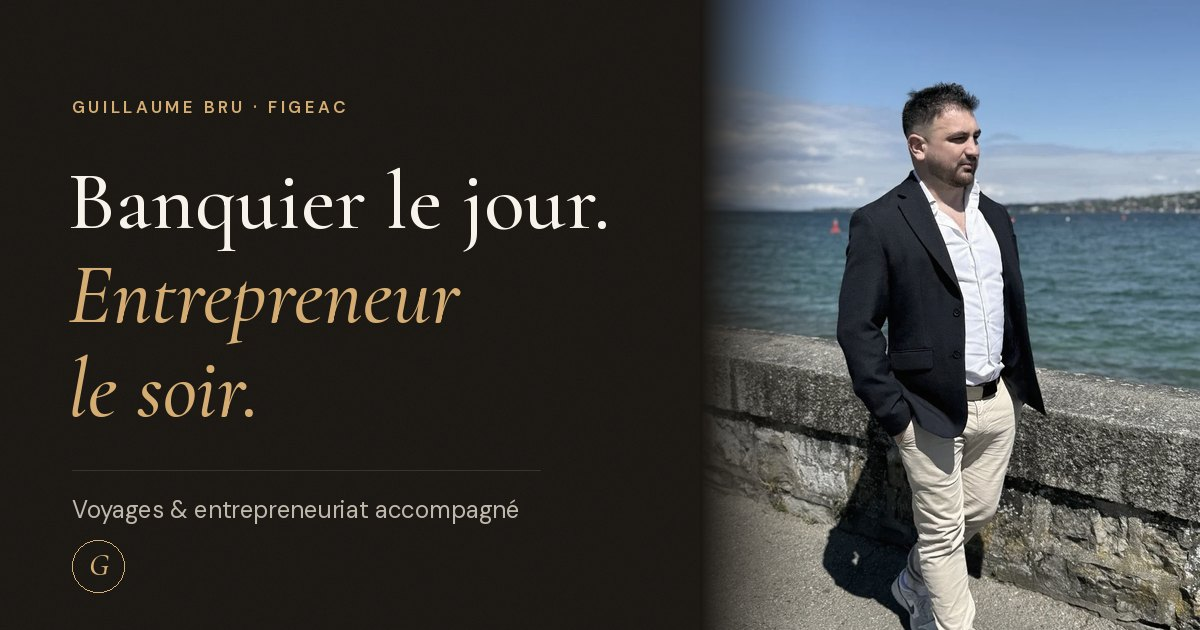
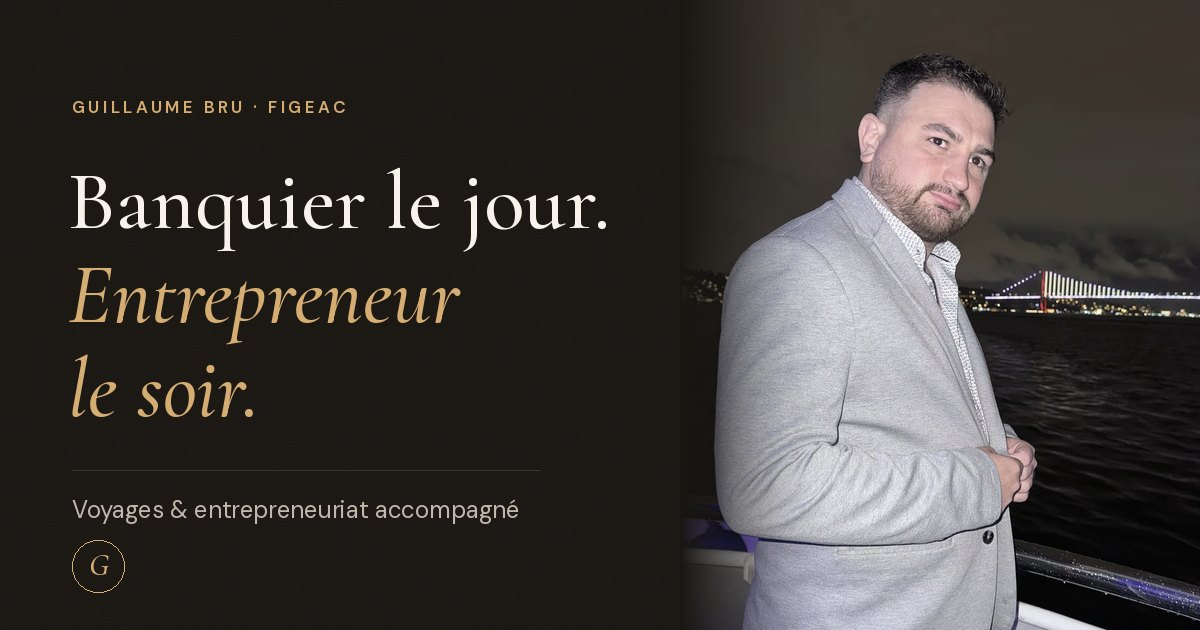
Nouvelles photos, 19 pays et domaine guillaumebru.com
- Accueil : photo de nuit sur le Bosphore en haut, promenade en lin dans
  « Voyager », portrait en veste dans « Faire connaissance »
- Voyager : promenade au coucher du soleil en haut de page
- Chiffres clés : ajout de « 19 pays explorés »
- Adresses de référence, image de partage absolue, sitemap.xml et robots.txt
  pour https://guillaumebru.com ; carte de partage refaite avec la photo de nuit
- Retrait des anciennes photos (coucher de soleil, bateau)

Claude-Session: https://claude.ai/code/session_01PUJB4rUA6A8euqWsjaTKYS

diff --git a/index.html b/index.html
@@ -1,9 +1,9 @@
-<!doctype html><html lang="fr"><head><meta charset="utf-8"><script>document.documentElement.classList.add('js');setTimeout(function(){if(!window.__revealReady)document.documentElement.classList.add('reveal-all')},3500)</script><meta name="viewport" content="width=device-width,initial-scale=1"><meta name="theme-color" content="#191612"><meta name="robots" content="index,follow"><title>Guillaume Bru — Voyages &amp; entrepreneuriat accompagné</title><meta name="description" content="Voyager, entreprendre et avancer à ton rythme avec Guillaume Bru, à Figeac."><meta property="og:title" content="Guillaume Bru — Voyages &amp; entrepreneuriat accompagné"><meta property="og:description" content="Voyager, entreprendre et avancer à ton rythme avec Guillaume Bru, à Figeac."><meta property="og:type" content="website"><meta property="og:site_name" content="Guillaume Bru"><meta property="og:locale" content="fr_FR"><meta property="og:image" content="assets/og-card.jpg"><meta property="og:image:width" content="1200"><meta property="og:image:height" content="630"><meta property="og:image:alt" content="Guillaume Bru — Banquier le jour. Entrepreneur le soir."><meta name="twitter:card" content="summary_large_image"><link rel="icon" href="favicon.svg" type="image/svg+xml"><link rel="preload" href="assets/editorial.woff2" as="font" type="font/woff2" crossorigin><link rel="preload" href="assets/sans.woff2" as="font" type="font/woff2" crossorigin><link rel="stylesheet" href="site.css?v=20261110-premium"><script src="app.js?v=20261110-premium" defer></script></head><body data-page="home"><a class="skip-link" href="#main">Aller au contenu</a><header class="site-header"><div class="wrap header-inner"><a class="brand" href="index.html" aria-label="Guillaume Bru, accueil">Guillaume <em>Bru.</em></a><button class="menu-toggle" aria-expanded="false" aria-controls="main-navigation">Menu</button><nav class="header-nav" id="main-navigation" aria-label="Navigation principale"><a href="voyages.html">Voyager</a><a href="activite.html">Entreprendre</a><a href="index.html#guillaume">Guillaume</a><a class="button" href="#contact">On en parle ? <span aria-hidden="true">↗</span></a></nav></div></header><main id="main">
-<section class="hero hero-dark" aria-labelledby="home-title"><div class="wrap hero-grid"><div class="hero-copy"><span class="eyebrow">Guillaume Bru · Figeac</span><h1 id="home-title"><span class="line"><span>Banquier le jour.</span></span><em><span class="line"><span>Entrepreneur</span></span><span class="line"><span>le soir.</span></span></em></h1><p class="hero-lead">Le voyage fait partie de ma vie.<br>L’entrepreneuriat aussi.</p><p>Depuis 2021, je développe une activité autour du voyage en parallèle de mon emploi. Je partage les services que j’utilise et j’accompagne ceux qui veulent se lancer.</p><a class="button" href="#contact">On en parle ? <span aria-hidden="true">↗</span></a><a class="quiet-link" href="#voyager">Découvrir mes activités <span class="arrow-down" aria-hidden="true">↓</span></a><div class="personal-intro"><a class="intro-person" href="#guillaume"><span class="intro-portrait"><img src="assets/costume-avatar.webp" width="160" height="213" alt="Portrait de Guillaume Bru" loading="eager"></span><span><strong>Moi, c’est Guillaume.</strong><span>Figeac · Banquier &amp; entrepreneur</span></span></a></div></div><figure class="hero-photo sunset-photo"><img src="assets/portrait-800.webp" srcset="assets/portrait-480.webp 480w, assets/portrait-800.webp 800w, assets/portrait-1200.webp 1152w" sizes="(max-width: 620px) calc(100vw - 40px), (max-width: 820px) 44vw, 560px" width="1152" height="1536" alt="Guillaume Bru en veste, au bord de l’eau" loading="eager" fetchpriority="high" decoding="async"></figure></div></section>
+<!doctype html><html lang="fr"><head><meta charset="utf-8"><script>document.documentElement.classList.add('js');setTimeout(function(){if(!window.__revealReady)document.documentElement.classList.add('reveal-all')},3500)</script><meta name="viewport" content="width=device-width,initial-scale=1"><meta name="theme-color" content="#191612"><meta name="robots" content="index,follow"><title>Guillaume Bru — Voyages &amp; entrepreneuriat accompagné</title><meta name="description" content="Voyager, entreprendre et avancer à ton rythme avec Guillaume Bru, à Figeac."><meta property="og:title" content="Guillaume Bru — Voyages &amp; entrepreneuriat accompagné"><meta property="og:description" content="Voyager, entreprendre et avancer à ton rythme avec Guillaume Bru, à Figeac."><meta property="og:type" content="website"><meta property="og:site_name" content="Guillaume Bru"><meta property="og:locale" content="fr_FR"><meta property="og:url" content="https://guillaumebru.com/"><meta property="og:image" content="https://guillaumebru.com/assets/og-card.jpg"><meta property="og:image:width" content="1200"><meta property="og:image:height" content="630"><meta property="og:image:alt" content="Guillaume Bru — Banquier le jour. Entrepreneur le soir."><meta name="twitter:card" content="summary_large_image"><link rel="canonical" href="https://guillaumebru.com/"><link rel="icon" href="favicon.svg" type="image/svg+xml"><link rel="preload" href="assets/editorial.woff2" as="font" type="font/woff2" crossorigin><link rel="preload" href="assets/sans.woff2" as="font" type="font/woff2" crossorigin><link rel="stylesheet" href="site.css?v=20261110-premium"><script src="app.js?v=20261110-premium" defer></script></head><body data-page="home"><a class="skip-link" href="#main">Aller au contenu</a><header class="site-header"><div class="wrap header-inner"><a class="brand" href="index.html" aria-label="Guillaume Bru, accueil">Guillaume <em>Bru.</em></a><button class="menu-toggle" aria-expanded="false" aria-controls="main-navigation">Menu</button><nav class="header-nav" id="main-navigation" aria-label="Navigation principale"><a href="voyages.html">Voyager</a><a href="activite.html">Entreprendre</a><a href="index.html#guillaume">Guillaume</a><a class="button" href="#contact">On en parle ? <span aria-hidden="true">↗</span></a></nav></div></header><main id="main">
+<section class="hero hero-dark" aria-labelledby="home-title"><div class="wrap hero-grid"><div class="hero-copy"><span class="eyebrow">Guillaume Bru · Figeac</span><h1 id="home-title"><span class="line"><span>Banquier le jour.</span></span><em><span class="line"><span>Entrepreneur</span></span><span class="line"><span>le soir.</span></span></em></h1><p class="hero-lead">Le voyage fait partie de ma vie.<br>L’entrepreneuriat aussi.</p><p>Depuis 2021, je développe une activité autour du voyage en parallèle de mon emploi. Je partage les services que j’utilise et j’accompagne ceux qui veulent se lancer.</p><a class="button" href="#contact">On en parle ? <span aria-hidden="true">↗</span></a><a class="quiet-link" href="#voyager">Découvrir mes activités <span class="arrow-down" aria-hidden="true">↓</span></a><div class="personal-intro"><a class="intro-person" href="#guillaume"><span class="intro-portrait"><img src="assets/costume-avatar.webp" width="160" height="213" alt="Portrait de Guillaume Bru" loading="eager"></span><span><strong>Moi, c’est Guillaume.</strong><span>Figeac · Banquier &amp; entrepreneur</span></span></a></div></div><figure class="hero-photo sunset-photo"><img src="assets/night-800.webp" srcset="assets/night-480.webp 480w, assets/night-800.webp 800w, assets/night-1200.webp 1200w" sizes="(max-width: 620px) calc(100vw - 40px), (max-width: 820px) 44vw, 560px" width="1200" height="1600" alt="Guillaume Bru en veste, le soir sur le Bosphore" loading="eager" fetchpriority="high" decoding="async"></figure></div></section>
 <aside class="press-band" aria-label="La plateforme et l’entreprise dans les médias"><div class="wrap press-band-inner"><span class="eyebrow">La plateforme à la télévision</span><ul class="press-list"><li><a href="https://www.m6.fr/un-jour-un-doc-p_22196/les-nouveaux-rois-des-vacances-a-prix-casses-c_13173486" target="_blank" rel="noopener noreferrer"><span class="press-name">M6</span><span class="press-show">Un jour, un doc</span></a></li><li><a href="https://youtu.be/HlWkTSdyjbs" target="_blank" rel="noopener noreferrer"><span class="press-name">BFM Business</span><span class="press-show">L’interview</span></a></li></ul><p class="press-note">La plateforme de réservation et l’entreprise MWR Life ont été présentées dans ces émissions.</p></div></aside>
-<section class="section wrap offer-grid" id="voyager"><figure class="editorial-photo travel-photo"><img src="assets/sunset-800.webp" srcset="assets/sunset-480.webp 480w, assets/sunset-800.webp 800w, assets/sunset-1200.webp 1200w" sizes="(max-width: 620px) calc(100vw - 40px), (max-width: 820px) 44vw, 560px" width="1200" height="1601" alt="Guillaume face à la mer au coucher du soleil" loading="lazy" decoding="async"><figcaption>Des moments qu’on a envie de revivre.</figcaption></figure><div class="section-copy"><span class="eyebrow">01 — Voyager</span><h2>Ton prochain<br><em>départ.</em></h2><p class="lead">Les vacances que tu attends.<br>Le week-end qui ferait du bien.<br>Le déplacement qui se prépare.</p><p>Pour mes réservations, j’utilise une plateforme privée, accessible sur invitation. Je te la fais découvrir à partir de tes envies et de tes besoins, pour tes voyages personnels comme professionnels.</p><a class="text-link" href="voyages.html">Découvrir une autre façon de réserver <span aria-hidden="true">↗</span></a><div class="small-aside"><span class="eyebrow">Envie de partager le voyage ?</span><p>En famille, entre amis ou en solo, découvre aussi les Life Experiences.</p><a href="voyages.html#experiences">Explorer les expériences ↗</a></div></div></section>
+<section class="section wrap offer-grid" id="voyager"><figure class="editorial-photo travel-photo"><img src="assets/linen-800.webp" srcset="assets/linen-480.webp 480w, assets/linen-800.webp 800w, assets/linen-1200.webp 1200w" sizes="(max-width: 620px) calc(100vw - 40px), (max-width: 820px) 44vw, 560px" width="1200" height="1600" alt="Guillaume en tenue de lin claire, sur une promenade en bord de mer" loading="lazy" decoding="async"><figcaption>Des moments qu’on a envie de revivre.</figcaption></figure><div class="section-copy"><span class="eyebrow">01 — Voyager</span><h2>Ton prochain<br><em>départ.</em></h2><p class="lead">Les vacances que tu attends.<br>Le week-end qui ferait du bien.<br>Le déplacement qui se prépare.</p><p>Pour mes réservations, j’utilise une plateforme privée, accessible sur invitation. Je te la fais découvrir à partir de tes envies et de tes besoins, pour tes voyages personnels comme professionnels.</p><a class="text-link" href="voyages.html">Découvrir une autre façon de réserver <span aria-hidden="true">↗</span></a><div class="small-aside"><span class="eyebrow">Envie de partager le voyage ?</span><p>En famille, entre amis ou en solo, découvre aussi les Life Experiences.</p><a href="voyages.html#experiences">Explorer les expériences ↗</a></div></div></section>
 <section class="section dark-section" id="entreprendre"><div class="wrap offer-grid reverse-grid"><div class="section-copy"><span class="eyebrow">02 — Entreprendre</span><h2>Ton projet.<br><em>On prépare la suite.</em></h2><p class="lead">Financer une envie. Partir plus souvent.<br>Retrouver un peu de marge.</p><p>Mon activité : recommander un service que j’utilise pour mes propres voyages, et être rémunéré grâce à cette recommandation.</p><div class="human-note"><span class="eyebrow">De l’entrepreneuriat accompagné</span><h3>Ton activité. Ton rythme.</h3><p>Tu apprends à présenter le service avec la formation en ligne. Ensemble, on prépare tes premiers échanges et on fait le point sur ce qui te bloque.</p><p>Pas de patron, pas de pression de ma part. L’activité s’adapte à ta vie, pas l’inverse.</p></div><a class="button" href="activite.html">Découvrir l’activité <span aria-hidden="true">↗</span></a></div><figure class="editorial-photo training-photo"><img src="assets/training-crop-600.webp" srcset="assets/training-crop-480.webp 480w, assets/training-crop-600.webp 600w" sizes="(max-width: 620px) calc(100vw - 40px), (max-width: 820px) 44vw, 560px" width="600" height="900" alt="Guillaume anime une présentation en petit groupe" loading="lazy" decoding="async"><figcaption>Présenter le service et répondre aux questions, ensemble.</figcaption></figure></div></section>
-<section class="section wrap about-grid" id="guillaume"><figure class="editorial-photo about-photo"><img src="assets/costume-800.webp" srcset="assets/costume-480.webp 480w, assets/costume-800.webp 800w, assets/costume-1200.webp 1169w" sizes="(max-width: 620px) calc(100vw - 40px), (max-width: 820px) 44vw, 560px" width="1169" height="1559" alt="Guillaume en costume dans un patio" loading="lazy" decoding="async"><figcaption>Guillaume Bru · Figeac</figcaption></figure><div class="section-copy"><span class="eyebrow">Faire connaissance</span><h2>Banquier.<br>Entrepreneur.<br><em>Et toujours curieux.</em></h2><div class="key-figures"><div><strong>2011</strong><span>Banquier</span></div><div><strong>2021</strong><span>Entrepreneur</span></div><div><strong>CAE</strong><span>Cofondateur</span></div></div><p>Le jour, je travaille en banque. Le soir, je construis une activité autour du voyage.</p><p>J’aime découvrir un endroit, réunir des personnes et voir une idée devenir un projet. C’est ce que je partage ici, et ce que j’ai envie de transmettre à ceux que j’accompagne.</p><p class="subtle">J’ai aussi cofondé le Club Avantages Entrepreneur, qui réunit des dirigeants et des indépendants pour échanger et développer leur réseau.</p><a class="text-link" href="https://www.instagram.com/guillaume.bru_/" target="_blank" rel="noopener noreferrer">Me retrouver sur Instagram <span aria-hidden="true">↗</span></a></div></section>
+<section class="section wrap about-grid" id="guillaume"><figure class="editorial-photo about-photo"><img src="assets/portrait-800.webp" srcset="assets/portrait-480.webp 480w, assets/portrait-800.webp 800w, assets/portrait-1200.webp 1152w" sizes="(max-width: 620px) calc(100vw - 40px), (max-width: 820px) 44vw, 560px" width="1152" height="1536" alt="Guillaume Bru en veste, au bord de l’eau" loading="lazy" decoding="async"><figcaption>Guillaume Bru · Figeac</figcaption></figure><div class="section-copy"><span class="eyebrow">Faire connaissance</span><h2>Banquier.<br>Entrepreneur.<br><em>Et toujours curieux.</em></h2><div class="key-figures"><div><strong>2011</strong><span>Banquier</span></div><div><strong>2021</strong><span>Entrepreneur</span></div><div><strong>19</strong><span>Pays explorés</span></div><div><strong>CAE</strong><span>Cofondateur</span></div></div><p>Le jour, je travaille en banque. Le soir, je construis une activité autour du voyage.</p><p>J’aime découvrir un endroit, réunir des personnes et voir une idée devenir un projet. C’est ce que je partage ici, et ce que j’ai envie de transmettre à ceux que j’accompagne.</p><p class="subtle">J’ai aussi cofondé le Club Avantages Entrepreneur, qui réunit des dirigeants et des indépendants pour échanger et développer leur réseau.</p><a class="text-link" href="https://www.instagram.com/guillaume.bru_/" target="_blank" rel="noopener noreferrer">Me retrouver sur Instagram <span aria-hidden="true">↗</span></a></div></section>
 <section class="manifesto" aria-labelledby="manifesto-title"><div class="wrap manifesto-inner"><svg class="monogram" viewBox="0 0 64 64" aria-hidden="true" focusable="false"><circle cx="32" cy="32" r="30.5" fill="none" stroke="currentColor" stroke-width="1"/><circle cx="32" cy="32" r="27" fill="none" stroke="currentColor" stroke-width=".5" opacity=".55"/><text x="32.5" y="43" text-anchor="middle" font-family="Editorial, Georgia, serif" font-size="33" font-style="italic" fill="currentColor">G</text></svg><span class="eyebrow" id="manifesto-title">Ce qui me guide</span><blockquote><p>La liberté n’est pas réservée à ceux qui semblaient <em>y être destinés.</em></p></blockquote><p class="signature">Guillaume Bru</p><span class="hairline" aria-hidden="true"></span></div></section>
 <section class="contact-section" id="contact"><div class="wrap contact-inner"><span class="eyebrow">La suite commence par un échange</span><h2>Qu’est-ce qui<br><em>te donne envie&nbsp;?</em></h2><p>Un voyage en tête ou une activité à construire ?<br>Choisis ce qui t’intéresse. On en parle ensemble.</p><div class="contact-actions"><a class="button" href="https://wa.me/33670026814?text=Bonjour%20Guillaume%2C%20je%20souhaite%20comparer%20pour%20mon%20prochain%20s%C3%A9jour.%20Voici%20ma%20destination%2C%20mes%20dates%20et%20le%20nombre%20de%20voyageurs%20%3A%20" target="_blank" rel="noopener noreferrer">Comparer pour mon séjour <span aria-hidden="true">↗</span></a><a class="button button-outline" href="https://wa.me/33670026814?text=Bonjour%20Guillaume%2C%20je%20viens%20de%20d%C3%A9couvrir%20ton%20site.%20J%E2%80%99aimerais%20en%20savoir%20plus%20sur%20l%E2%80%99activit%C3%A9%20de%20recommandation%20et%20ton%20accompagnement.%20Peut-on%20en%20parler%20%3F" target="_blank" rel="noopener noreferrer">Parlons de mon projet <span aria-hidden="true">↗</span></a></div><a class="quiet-link" href="https://calendly.com/guillaume-bru/cae" target="_blank" rel="noopener noreferrer">Tu préfères un appel ? Réserver un échange ↗</a></div></section>
 </main>

diff --git a/voyages.html b/voyages.html
@@ -1,5 +1,5 @@
-<!doctype html><html lang="fr"><head><meta charset="utf-8"><script>document.documentElement.classList.add('js');setTimeout(function(){if(!window.__revealReady)document.documentElement.classList.add('reveal-all')},3500)</script><meta name="viewport" content="width=device-width,initial-scale=1"><meta name="theme-color" content="#191612"><meta name="robots" content="index,follow"><title>Ton prochain départ — Guillaume Bru</title><meta name="description" content="Découvre une plateforme de réservation privée sur invitation pour tes séjours personnels et professionnels."><meta property="og:title" content="Ton prochain départ — Guillaume Bru"><meta property="og:description" content="Découvre une plateforme de réservation privée sur invitation pour tes séjours personnels et professionnels."><meta property="og:type" content="website"><meta property="og:site_name" content="Guillaume Bru"><meta property="og:locale" content="fr_FR"><meta property="og:image" content="assets/og-card.jpg"><meta property="og:image:width" content="1200"><meta property="og:image:height" content="630"><meta property="og:image:alt" content="Guillaume Bru — Banquier le jour. Entrepreneur le soir."><meta name="twitter:card" content="summary_large_image"><link rel="icon" href="favicon.svg" type="image/svg+xml"><link rel="preload" href="assets/editorial.woff2" as="font" type="font/woff2" crossorigin><link rel="preload" href="assets/sans.woff2" as="font" type="font/woff2" crossorigin><link rel="stylesheet" href="site.css?v=20261110-premium"><script src="app.js?v=20261110-premium" defer></script></head><body data-page="travel"><a class="skip-link" href="#main">Aller au contenu</a><header class="site-header"><div class="wrap header-inner"><a class="brand" href="index.html" aria-label="Guillaume Bru, accueil">Guillaume <em>Bru.</em></a><button class="menu-toggle" aria-expanded="false" aria-controls="main-navigation">Menu</button><nav class="header-nav" id="main-navigation" aria-label="Navigation principale"><a href="voyages.html" aria-current="page">Voyager</a><a href="activite.html">Entreprendre</a><a href="index.html#guillaume">Guillaume</a><a class="button" href="#contact">On en parle ? <span aria-hidden="true">↗</span></a></nav></div></header><main id="main">
-<section class="hero hero-light" aria-labelledby="travel-title"><div class="wrap hero-grid"><div class="hero-copy"><span class="eyebrow">Voyager avec Guillaume</span><h1 id="travel-title"><span class="line"><span>Ton prochain</span></span><em><span class="line"><span>départ.</span></span></em></h1><p class="hero-lead">La mer à perte de vue.<br>Un week-end rien qu’à deux.<br>Ces vacances que tu attends.</p><p>Pour mes séjours, j’utilise une plateforme de réservation privée, accessible sur invitation. Je te la fais découvrir à partir d’une chose : ton prochain voyage.</p><a class="button" href="https://wa.me/33670026814?text=Bonjour%20Guillaume%2C%20je%20viens%20de%20d%C3%A9couvrir%20ton%20site.%20J%E2%80%99aimerais%20te%20parler%20de%20mon%20prochain%20voyage%20et%20d%C3%A9couvrir%20la%20plateforme%20priv%C3%A9e." target="_blank" rel="noopener noreferrer">Parlons de ton prochain voyage <span aria-hidden="true">↗</span></a><a class="quiet-link" href="#comparaison">Un exemple concret <span class="arrow-down" aria-hidden="true">↓</span></a></div><figure class="hero-photo travel-hero-photo"><img src="assets/boat-800.webp" srcset="assets/boat-480.webp 480w, assets/boat-800.webp 800w, assets/boat-1200.webp 1200w" sizes="(max-width: 620px) calc(100vw - 40px), (max-width: 820px) 44vw, 560px" width="1200" height="1600" alt="Guillaume en bateau sur la mer" loading="eager" fetchpriority="high" decoding="async"><figcaption>L’envie de repartir.</figcaption></figure></div></section>
+<!doctype html><html lang="fr"><head><meta charset="utf-8"><script>document.documentElement.classList.add('js');setTimeout(function(){if(!window.__revealReady)document.documentElement.classList.add('reveal-all')},3500)</script><meta name="viewport" content="width=device-width,initial-scale=1"><meta name="theme-color" content="#191612"><meta name="robots" content="index,follow"><title>Ton prochain départ — Guillaume Bru</title><meta name="description" content="Découvre une plateforme de réservation privée sur invitation pour tes séjours personnels et professionnels."><meta property="og:title" content="Ton prochain départ — Guillaume Bru"><meta property="og:description" content="Découvre une plateforme de réservation privée sur invitation pour tes séjours personnels et professionnels."><meta property="og:type" content="website"><meta property="og:site_name" content="Guillaume Bru"><meta property="og:locale" content="fr_FR"><meta property="og:url" content="https://guillaumebru.com/voyages.html"><meta property="og:image" content="https://guillaumebru.com/assets/og-card.jpg"><meta property="og:image:width" content="1200"><meta property="og:image:height" content="630"><meta property="og:image:alt" content="Guillaume Bru — Banquier le jour. Entrepreneur le soir."><meta name="twitter:card" content="summary_large_image"><link rel="canonical" href="https://guillaumebru.com/voyages.html"><link rel="icon" href="favicon.svg" type="image/svg+xml"><link rel="preload" href="assets/editorial.woff2" as="font" type="font/woff2" crossorigin><link rel="preload" href="assets/sans.woff2" as="font" type="font/woff2" crossorigin><link rel="stylesheet" href="site.css?v=20261110-premium"><script src="app.js?v=20261110-premium" defer></script></head><body data-page="travel"><a class="skip-link" href="#main">Aller au contenu</a><header class="site-header"><div class="wrap header-inner"><a class="brand" href="index.html" aria-label="Guillaume Bru, accueil">Guillaume <em>Bru.</em></a><button class="menu-toggle" aria-expanded="false" aria-controls="main-navigation">Menu</button><nav class="header-nav" id="main-navigation" aria-label="Navigation principale"><a href="voyages.html" aria-current="page">Voyager</a><a href="activite.html">Entreprendre</a><a href="index.html#guillaume">Guillaume</a><a class="button" href="#contact">On en parle ? <span aria-hidden="true">↗</span></a></nav></div></header><main id="main">
+<section class="hero hero-light" aria-labelledby="travel-title"><div class="wrap hero-grid"><div class="hero-copy"><span class="eyebrow">Voyager avec Guillaume · 19 pays explorés</span><h1 id="travel-title"><span class="line"><span>Ton prochain</span></span><em><span class="line"><span>départ.</span></span></em></h1><p class="hero-lead">La mer à perte de vue.<br>Un week-end rien qu’à deux.<br>Ces vacances que tu attends.</p><p>Pour mes séjours, j’utilise une plateforme de réservation privée, accessible sur invitation. Je te la fais découvrir à partir d’une chose : ton prochain voyage.</p><a class="button" href="https://wa.me/33670026814?text=Bonjour%20Guillaume%2C%20je%20viens%20de%20d%C3%A9couvrir%20ton%20site.%20J%E2%80%99aimerais%20te%20parler%20de%20mon%20prochain%20voyage%20et%20d%C3%A9couvrir%20la%20plateforme%20priv%C3%A9e." target="_blank" rel="noopener noreferrer">Parlons de ton prochain voyage <span aria-hidden="true">↗</span></a><a class="quiet-link" href="#comparaison">Un exemple concret <span class="arrow-down" aria-hidden="true">↓</span></a></div><figure class="hero-photo travel-hero-photo"><img src="assets/promenade-800.webp" srcset="assets/promenade-480.webp 480w, assets/promenade-800.webp 800w, assets/promenade-1200.webp 1200w" sizes="(max-width: 620px) calc(100vw - 40px), (max-width: 820px) 44vw, 560px" width="1200" height="1600" alt="Guillaume marche sur une promenade en bord de mer, au coucher du soleil" loading="eager" fetchpriority="high" decoding="async"><figcaption>L’envie de repartir.</figcaption></figure></div></section>
 <section class="section wrap"><div class="section-heading"><span class="eyebrow">Pour les vacances. Et pour le travail.</span><h2>Une autre façon<br><em>de préparer tes séjours.</em></h2></div><div class="intent-grid"><article><span class="index">01</span><div><h3>Pour toi et tes proches.</h3><p>Vacances en famille, escapade à deux ou week-end entre amis : découvre les offres pour le séjour que tu as en tête.</p><a class="text-link" href="https://wa.me/33670026814?text=Bonjour%20Guillaume%2C%20je%20viens%20de%20d%C3%A9couvrir%20ton%20site.%20J%E2%80%99aimerais%20te%20parler%20de%20mon%20prochain%20voyage%20et%20d%C3%A9couvrir%20la%20plateforme%20priv%C3%A9e." target="_blank" rel="noopener noreferrer">Parlons de mes vacances ↗</a></div></article><article><span class="index">02</span><div><h3>Pour ton activité.</h3><p>Un salon, une formation, un rendez-vous loin de chez toi : compare les hébergements selon tes dates et tes besoins.</p><a class="text-link" href="https://wa.me/33670026814?text=Bonjour%20Guillaume%2C%20je%20souhaite%20d%C3%A9couvrir%20la%20plateforme%20pour%20mes%20d%C3%A9placements%20professionnels.%20Voici%20mes%20besoins%20%3A%20" target="_blank" rel="noopener noreferrer">Parlons de mes déplacements pros ↗</a></div></article></div></section>
 <section class="section comparison-section" id="comparaison"><div class="wrap"><div class="section-heading"><span class="eyebrow">Avant de réserver</span><h2>La différence<br><em>se regarde en détail.</em></h2><p>Avant de réserver, je regarde le prix, mais aussi ce qui est inclus. Voici une recherche que j’ai réalisée pour six nuits en Andorre à Noël : les captures te permettent de voir les offres côte à côte.</p></div><div class="comparison-grid"><figure class="comparison-phones"><a href="assets/comparatif-andorre-telephones.jpg" target="_blank" rel="noopener" aria-label="Agrandir les captures du comparatif"><img src="assets/comparatif-andorre-telephones.jpg" width="1200" height="1580" loading="lazy" decoding="async" alt="Captures Booking.com et plateforme privée présentées côte à côte dans deux téléphones"></a><figcaption><a href="assets/comparatif-andorre-telephones.jpg" target="_blank" rel="noopener">Agrandir les captures ↗</a></figcaption></figure><div class="comparison-copy"><span class="eyebrow">Noël en Andorre</span><h3>Hotel &amp; Aparthotel<br><em>Cosmos</em></h3><p class="stay-dates">21 → 27 décembre 2026<br>6 nuits · 2 adultes</p><dl class="price-list"><div><dt>Booking.com</dt><dd>1 697,64 €</dd></div><div><dt>Plateforme privée</dt><dd>1 387 €</dd></div></dl><div class="difference"><strong>310,64 €</strong><p>de différence sur les montants affichés,<br>avant utilisation des points fidélité.</p></div><p class="subtle">Dans cet exemple, 27,85 € de points ramènent le montant affiché sur la plateforme privée à <strong>1 359,15 €.</strong></p><p class="fine-print">Comparatif réalisé le 28 octobre 2026 à 16 h 15. Tarifs constatés au moment de la recherche, susceptibles d’évoluer selon les disponibilités. Les prestations et conditions sont à vérifier pour chaque réservation.</p><a class="button" href="https://wa.me/33670026814?text=Bonjour%20Guillaume%2C%20je%20souhaite%20comparer%20pour%20mon%20prochain%20s%C3%A9jour.%20Voici%20ma%20destination%2C%20mes%20dates%20et%20le%20nombre%20de%20voyageurs%20%3A%20" target="_blank" rel="noopener noreferrer">Comparer pour mon séjour <span aria-hidden="true">↗</span></a></div></div></div></section>
 <section class="section dark-section" id="experiences"><div class="wrap"><div class="experience-intro"><div><span class="eyebrow">Les Life Experiences</span><h2>En famille, entre amis…<br><em>ou sans attendre personne.</em></h2></div><div><p class="lead">Il y a les voyages qu’on prépare ensemble. Et ceux qu’on repousse parce que les agendas ne s’accordent jamais.</p><p>Les Life Experiences proposent de découvrir une destination et de partager le séjour avec d’autres voyageurs. Tu peux partir avec tes proches ou rejoindre l’expérience en solo.</p><a class="text-link" href="https://lifeexperience.club/clubvip" target="_blank" rel="noopener noreferrer">Explorer les Life Experiences <span aria-hidden="true">↗</span></a></div></div><figure class="friends-panorama"><img src="assets/friends-800.webp" srcset="assets/friends-480.webp 480w, assets/friends-800.webp 800w, assets/friends-1200.webp 1179w" sizes="(max-width: 620px) calc(100vw - 40px), 850px" width="1179" height="781" alt="Guillaume partage un moment avec des amis" loading="lazy" decoding="async"><figcaption>Les rencontres font aussi partie du voyage.</figcaption></figure><p class="experience-note">Une destination te tente ? <a href="https://wa.me/33670026814?text=Bonjour%20Guillaume%2C%20je%20souhaite%20d%C3%A9couvrir%20les%20Life%20Experiences%2C%20les%20destinations%20et%20les%20conditions%20pour%20participer." target="_blank" rel="noopener noreferrer">Écris-moi pour découvrir le programme et les conditions ↗</a></p></div></section>

diff --git a/activite.html b/activite.html
@@ -1,4 +1,4 @@
-<!doctype html><html lang="fr"><head><meta charset="utf-8"><script>document.documentElement.classList.add('js');setTimeout(function(){if(!window.__revealReady)document.documentElement.classList.add('reveal-all')},3500)</script><meta name="viewport" content="width=device-width,initial-scale=1"><meta name="theme-color" content="#191612"><meta name="robots" content="index,follow"><title>Un projet à toi — Entreprendre avec Guillaume Bru</title><meta name="description" content="Découvre une activité autour du voyage et de la recommandation, avec des formations et un accompagnement humain."><meta property="og:title" content="Un projet à toi — Entreprendre avec Guillaume Bru"><meta property="og:description" content="Découvre une activité autour du voyage et de la recommandation, avec des formations et un accompagnement humain."><meta property="og:type" content="website"><meta property="og:site_name" content="Guillaume Bru"><meta property="og:locale" content="fr_FR"><meta property="og:image" content="assets/og-card.jpg"><meta property="og:image:width" content="1200"><meta property="og:image:height" content="630"><meta property="og:image:alt" content="Guillaume Bru — Banquier le jour. Entrepreneur le soir."><meta name="twitter:card" content="summary_large_image"><link rel="icon" href="favicon.svg" type="image/svg+xml"><link rel="preload" href="assets/editorial.woff2" as="font" type="font/woff2" crossorigin><link rel="preload" href="assets/sans.woff2" as="font" type="font/woff2" crossorigin><link rel="stylesheet" href="site.css?v=20261110-premium"><script src="app.js?v=20261110-premium" defer></script></head><body data-page="activity"><a class="skip-link" href="#main">Aller au contenu</a><header class="site-header"><div class="wrap header-inner"><a class="brand" href="index.html" aria-label="Guillaume Bru, accueil">Guillaume <em>Bru.</em></a><button class="menu-toggle" aria-expanded="false" aria-controls="main-navigation">Menu</button><nav class="header-nav" id="main-navigation" aria-label="Navigation principale"><a href="voyages.html">Voyager</a><a href="activite.html" aria-current="page">Entreprendre</a><a href="index.html#guillaume">Guillaume</a><a class="button" href="#contact">On en parle ? <span aria-hidden="true">↗</span></a></nav></div></header><main id="main" class="">
+<!doctype html><html lang="fr"><head><meta charset="utf-8"><script>document.documentElement.classList.add('js');setTimeout(function(){if(!window.__revealReady)document.documentElement.classList.add('reveal-all')},3500)</script><meta name="viewport" content="width=device-width,initial-scale=1"><meta name="theme-color" content="#191612"><meta name="robots" content="index,follow"><title>Un projet à toi — Entreprendre avec Guillaume Bru</title><meta name="description" content="Découvre une activité autour du voyage et de la recommandation, avec des formations et un accompagnement humain."><meta property="og:title" content="Un projet à toi — Entreprendre avec Guillaume Bru"><meta property="og:description" content="Découvre une activité autour du voyage et de la recommandation, avec des formations et un accompagnement humain."><meta property="og:type" content="website"><meta property="og:site_name" content="Guillaume Bru"><meta property="og:locale" content="fr_FR"><meta property="og:url" content="https://guillaumebru.com/activite.html"><meta property="og:image" content="https://guillaumebru.com/assets/og-card.jpg"><meta property="og:image:width" content="1200"><meta property="og:image:height" content="630"><meta property="og:image:alt" content="Guillaume Bru — Banquier le jour. Entrepreneur le soir."><meta name="twitter:card" content="summary_large_image"><link rel="canonical" href="https://guillaumebru.com/activite.html"><link rel="icon" href="favicon.svg" type="image/svg+xml"><link rel="preload" href="assets/editorial.woff2" as="font" type="font/woff2" crossorigin><link rel="preload" href="assets/sans.woff2" as="font" type="font/woff2" crossorigin><link rel="stylesheet" href="site.css?v=20261110-premium"><script src="app.js?v=20261110-premium" defer></script></head><body data-page="activity"><a class="skip-link" href="#main">Aller au contenu</a><header class="site-header"><div class="wrap header-inner"><a class="brand" href="index.html" aria-label="Guillaume Bru, accueil">Guillaume <em>Bru.</em></a><button class="menu-toggle" aria-expanded="false" aria-controls="main-navigation">Menu</button><nav class="header-nav" id="main-navigation" aria-label="Navigation principale"><a href="voyages.html">Voyager</a><a href="activite.html" aria-current="page">Entreprendre</a><a href="index.html#guillaume">Guillaume</a><a class="button" href="#contact">On en parle ? <span aria-hidden="true">↗</span></a></nav></div></header><main id="main" class="">
   <section class="hero hero-dark" aria-labelledby="activity-title">
     <div class="wrap hero-grid">
       <div class="hero-copy">

diff --git a/site.css b/site.css
@@ -104,7 +104,7 @@ body[data-page="home"] #home-title{font-size:clamp(58px,5.9vw,88px);line-height:
 .press-note{font-size:11px;color:#a89e91;letter-spacing:.02em;margin-top:6px}
 
 /* Chiffres clés */
-.key-figures{display:grid;grid-template-columns:repeat(3,1fr);border-block:1px solid var(--line);margin:8px 0 34px}
+.key-figures{display:grid;grid-template-columns:repeat(4,1fr);border-block:1px solid var(--line);margin:8px 0 34px}
 .key-figures>div{padding:22px 0 20px 24px;border-left:1px solid var(--line)}
 .key-figures>div:first-child{padding-left:0;border-left:0}
 .key-figures strong{display:block;font:500 clamp(40px,3.6vw,54px)/1 var(--display);letter-spacing:-.03em;color:var(--ink)}
@@ -152,3 +152,7 @@ body[data-page="home"] #home-title{font-size:clamp(58px,5.9vw,88px);line-height:
 }
 @media(prefers-reduced-motion:reduce){.js .reveal,.js .reveal-photo>img,.js .hero h1 .line>span,.js .hairline,.js .reveal-photo>figcaption{opacity:1!important;transform:none!important;clip-path:none!important}.js .text-link{background-size:100% 1px}}
 .reveal-all .reveal,.reveal-all .reveal-photo>img,.reveal-all .hero h1 .line>span,.reveal-all .hairline,.reveal-all .reveal-photo>figcaption{opacity:1!important;transform:none!important;clip-path:none!important}
+
+/* Chiffres clés sur 2 lignes quand la colonne est étroite */
+@media(max-width:1100px){.key-figures{grid-template-columns:1fr 1fr}.key-figures>div:nth-child(3){padding-left:0;border-left:0}.key-figures>div:nth-child(n+3){border-top:1px solid var(--line)}}
+.sunset-photo>img{object-position:50% 22%}

diff --git a/README.md b/README.md
@@ -6,7 +6,7 @@ Site statique : `index.html`, `voyages.html`, `activite.html`, `site.css` et `ap
 
 Dans **Settings → Pages**, choisir **Deploy from a branch**, la branche `main` et le dossier `/ (root)`.
 
-Les pages autorisent désormais l’indexation. L’image de partage est prête (`assets/og-card.jpg`, 1200 × 630) : une fois l’adresse publique fixée, remplacer `content="assets/og-card.jpg"` par l’URL absolue dans les balises `og:image` des trois pages, car WhatsApp, Facebook et LinkedIn n’acceptent que les adresses complètes. Vérifier l’adresse publique définitive avant d’ajouter les URL canoniques, le sitemap et les métadonnées sociales absolues. Ne pas utiliser `noindex` comme protection d’accès : ce site ne comporte aucune authentification.
+Les pages autorisent désormais l’indexation. Adresse publique : **https://guillaumebru.com**. Les adresses de référence, l’image de partage (`assets/og-card.jpg`, 1200 × 630), `sitemap.xml` et `robots.txt` pointent vers ce domaine. Le domaine se relie dans **Settings → Pages → Custom domain**. Ne pas utiliser `noindex` comme protection d’accès : ce site ne comporte aucune authentification.
 
 Les contacts ouvrent WhatsApp, Calendly ou Instagram. Aucun formulaire, outil de mesure d’audience, cookie de session ou jeton applicatif n’est géré par le site.
 
